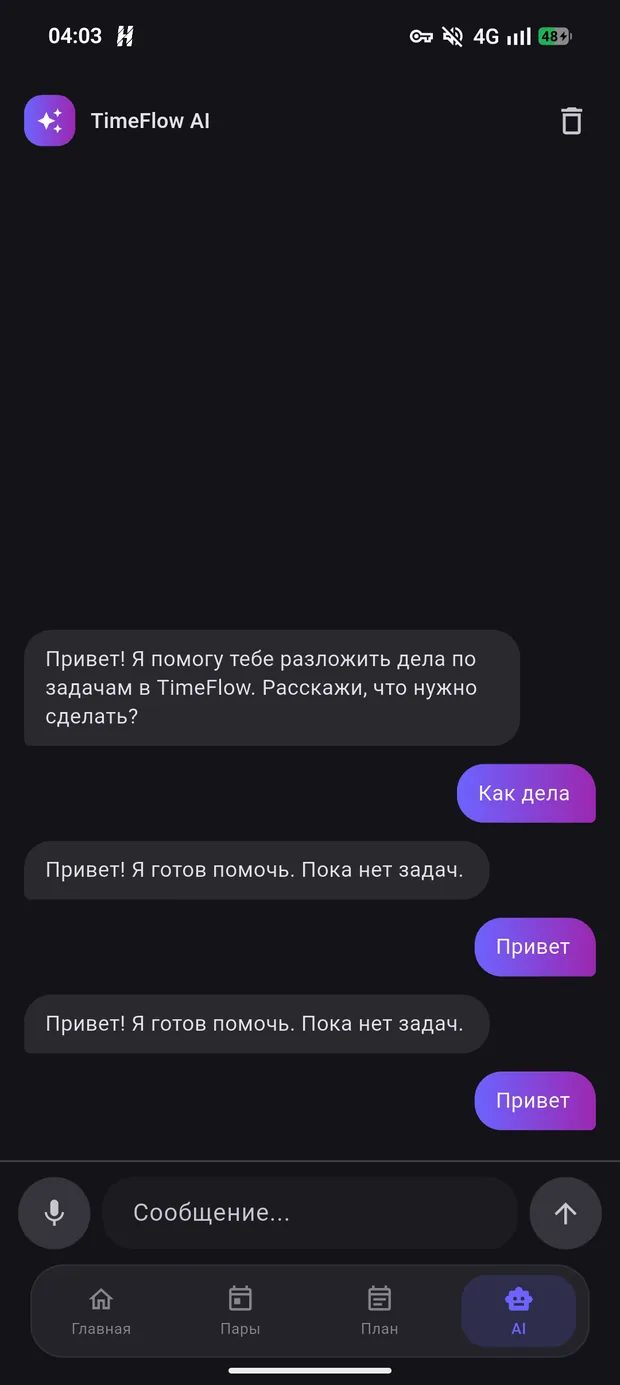
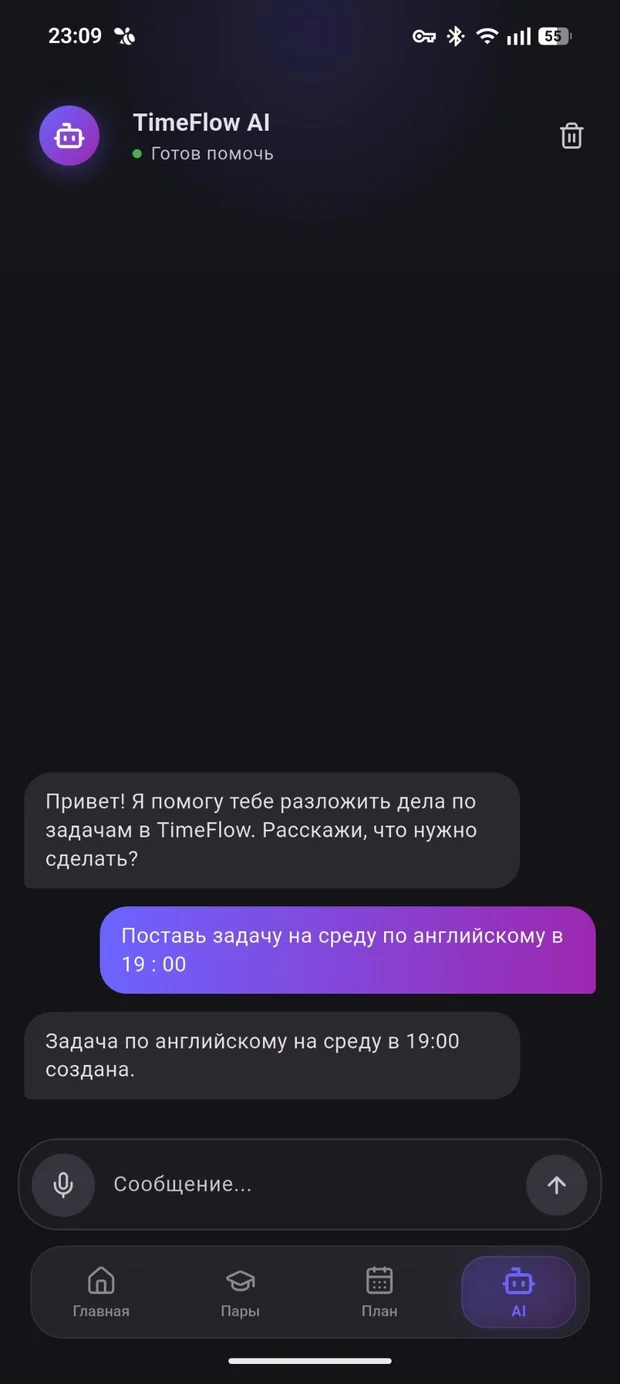
Update app screenshots and add planner screen
Replace tasks, schedule and assistant screenshots with current ones, add a
fourth (planner), switch the gallery to four columns with a matching
fan-out on scroll, and reset figure's default side margins that made the
screenshots narrower than their columns.

Claude-Session: https://claude.ai/code/session_017JTKDNmbXVpk9xy2iSxojc

diff --git a/assets/style.css b/assets/style.css
@@ -630,11 +630,14 @@ section { padding: 72px 0; }
    из-под шапки выглядывала полоса фона. */
 .shots {
   display: grid;
-  grid-template-columns: repeat(3, minmax(0, 1fr));
+  grid-template-columns: repeat(4, minmax(0, 1fr));
   gap: 26px;
 }
 @media (max-width: 900px) {
   .shots { grid-template-columns: repeat(2, minmax(0, 1fr)); }
+  /* Две колонки на планшете широкие, и снимок во всю колонку вышел бы
+     выше экрана */
+  .shots .shot { max-width: 300px; margin-inline: auto; }
 }
 
 /* На телефоне две колонки давали снимки шириной с ноготь: разобрать на них
@@ -662,7 +665,10 @@ section { padding: 72px 0; }
   }
 }
 
+/* margin: 0 — у figure по умолчанию поля по 40 пикселей с боков, и
+   снимки выходили заметно уже своих колонок */
 .shot {
+  margin: 0;
   border-radius: 26px;
   overflow: hidden;
   border: 1px solid var(--line);
@@ -1171,19 +1177,22 @@ a:focus-visible, summary:focus-visible, .btn:focus-visible {
 
 /* ── Снимки разъезжаются по прокрутке ──────────────────────────────────── */
 
-/* Пока блок подъезжает снизу, боковые снимки лежат стопкой под средним и
+/* Пока блок подъезжает снизу, снимки лежат веером у середины и
    расходятся в стороны по мере прокрутки. Долю пройденного (0…1) считает
    скрипт и кладёт в --p на .shots.
 
    По умолчанию --p: 1 — то есть «уже разъехались». Это важно: без скрипта
-   и при выключенном движении раздел должен выглядеть обычной тройкой
+   и при выключенном движении раздел должен выглядеть обычным рядом
    снимков, а не кучей друг на друге. */
 .shots { --p: 1; }
 
+/* Снимков четыре: крайние едут от середины вдвое с лишним дальше
+   внутренних, а внутренние лежат поверх крайних */
 .shot-slot { --dir: 0; }
-.shots > .shot-slot:first-child { --dir: 1; z-index: 1; }
-.shots > .shot-slot:last-child { --dir: -1; z-index: 1; }
-.shots > .shot-slot:nth-child(2) { z-index: 2; }
+.shots > .shot-slot:nth-child(1) { --dir: 1.5; z-index: 1; }
+.shots > .shot-slot:nth-child(2) { --dir: .5; z-index: 2; }
+.shots > .shot-slot:nth-child(3) { --dir: -.5; z-index: 2; }
+.shots > .shot-slot:nth-child(4) { --dir: -1.5; z-index: 1; }
 
 @media (min-width: 901px) {
   .shot-slot {
@@ -1194,12 +1203,6 @@ a:focus-visible, summary:focus-visible, .btn:focus-visible {
       rotate(calc(var(--dir) * (1 - var(--p)) * -5deg))
       scale(calc(1 - (1 - var(--p)) * 0.13));
     opacity: calc(.34 + .66 * var(--p));
-  }
-  /* Средний не уезжает, только чуть подрастает — он остаётся точкой,
-     из которой всё расходится */
-  .shots > .shot-slot:nth-child(2) {
-    transform: scale(calc(.94 + .06 * var(--p)));
-    opacity: calc(.55 + .45 * var(--p));
   }
 }
 

diff --git a/index.html b/index.html
@@ -284,19 +284,25 @@
     <div class="shots">
       <div class="shot-slot">
         <figure class="shot">
-          <img src="assets/tasks.webp" alt="Список задач" loading="lazy" width="620" height="1385">
-          <figcaption>Задачи на сегодня</figcaption>
+          <img src="assets/tasks.webp" alt="Экран «Мои задачи»: задачи на сегодня и на потом" loading="lazy" width="620" height="1384">
+          <figcaption>Мои задачи</figcaption>
         </figure>
       </div>
       <div class="shot-slot">
         <figure class="shot">
-          <img src="assets/schedule.webp" alt="Расписание пар" loading="lazy" width="620" height="1385">
+          <img src="assets/schedule.webp" alt="Расписание пар группы на пятницу" loading="lazy" width="620" height="1384">
           <figcaption>Расписание вуза</figcaption>
         </figure>
       </div>
       <div class="shot-slot">
         <figure class="shot">
-          <img src="assets/assistant.webp" alt="Ассистент" loading="lazy" width="620" height="1385">
+          <img src="assets/planner.webp" alt="Планировщик: неделя и задачи на выбранный день" loading="lazy" width="620" height="1384">
+          <figcaption>Планировщик</figcaption>
+        </figure>
+      </div>
+      <div class="shot-slot">
+        <figure class="shot">
+          <img src="assets/assistant.webp" alt="Чат с ассистентом: задача создаётся по одной фразе" loading="lazy" width="620" height="1384">
           <figcaption>Ассистент</figcaption>
         </figure>
       </div>
